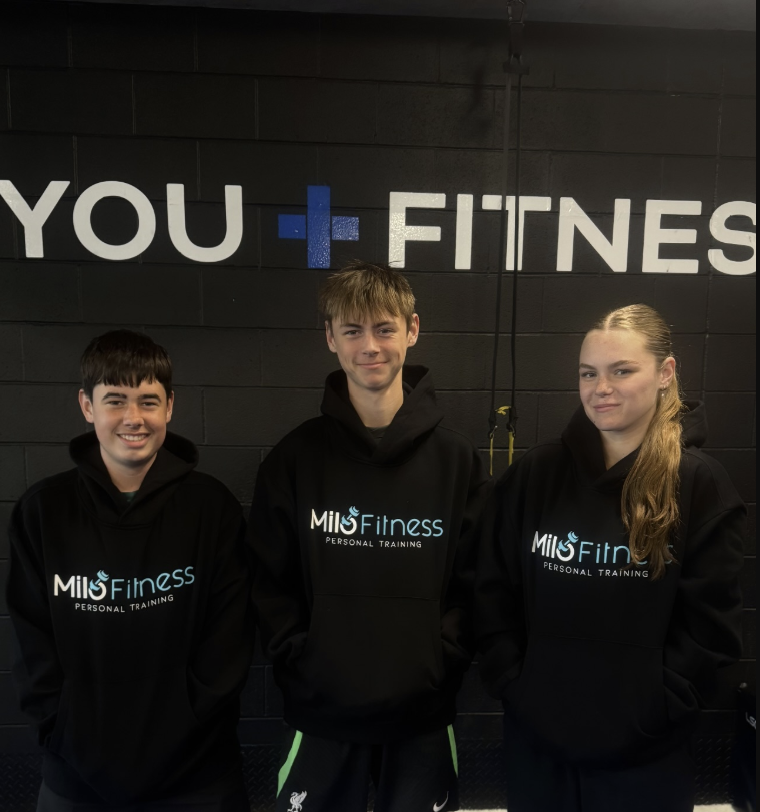
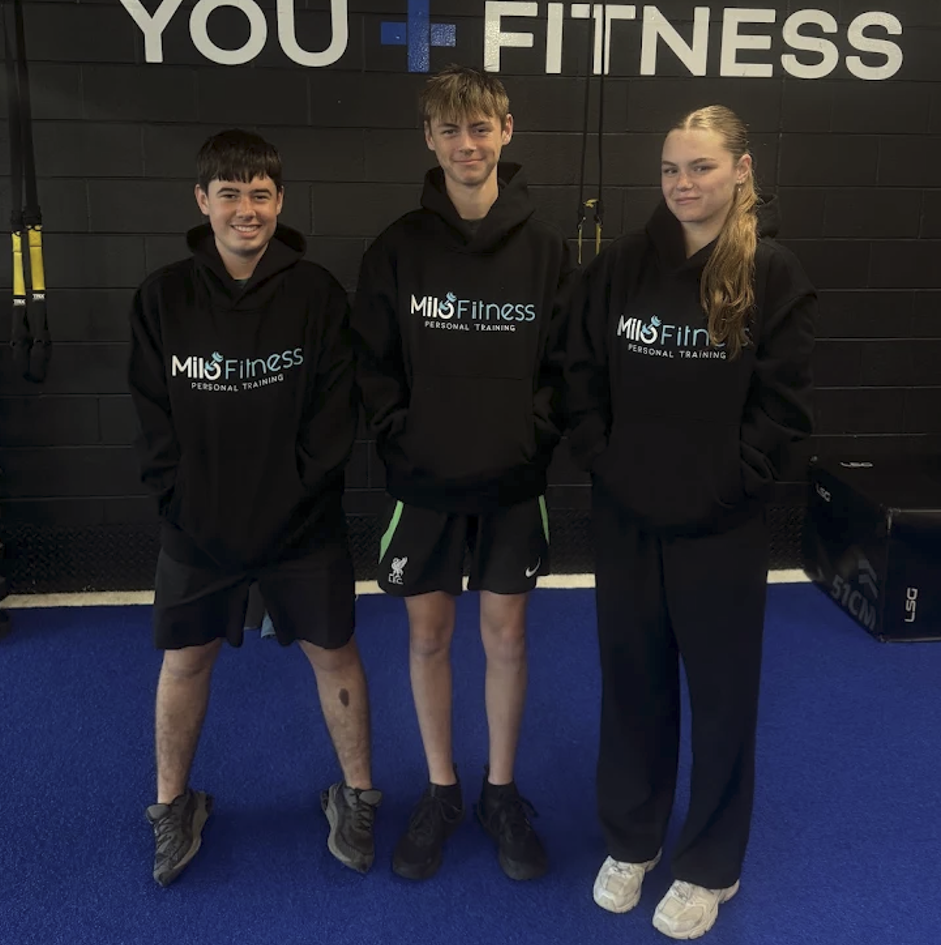
fixes

diff --git a/static/css/components/cards.css b/static/css/components/cards.css
@@ -154,8 +154,7 @@
 
 .worn-card img {
   width: 100%;
-  height: 100%;
-  aspect-ratio: 3 / 4;
-  object-fit: cover;
+  aspect-ratio: 1/ 1;
+  object-fit: contain;
   display: block;
 }
